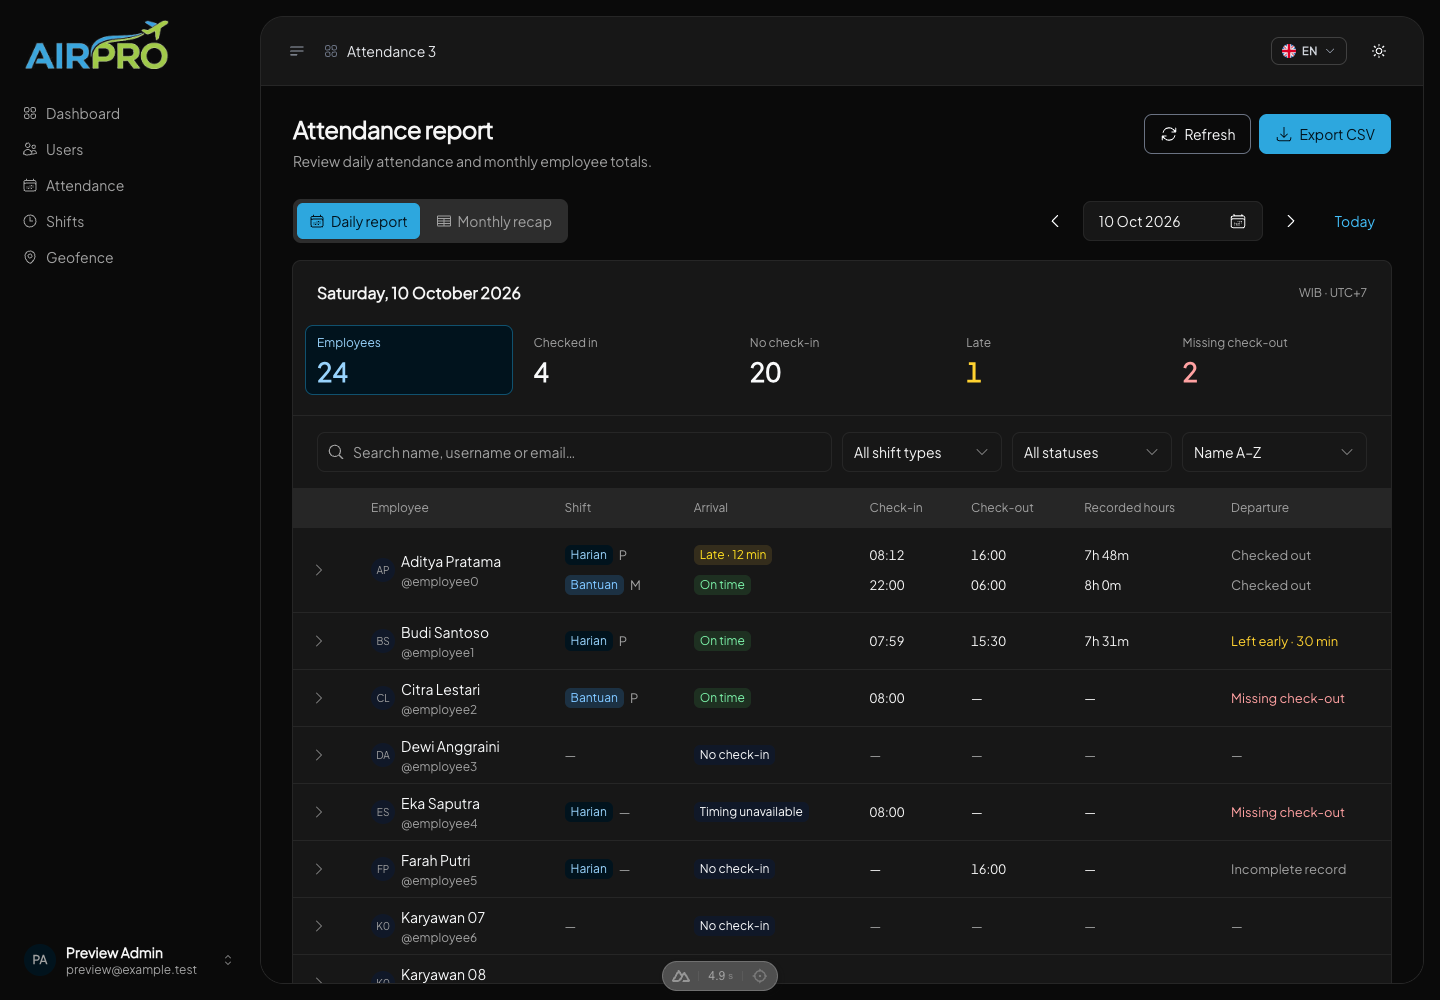
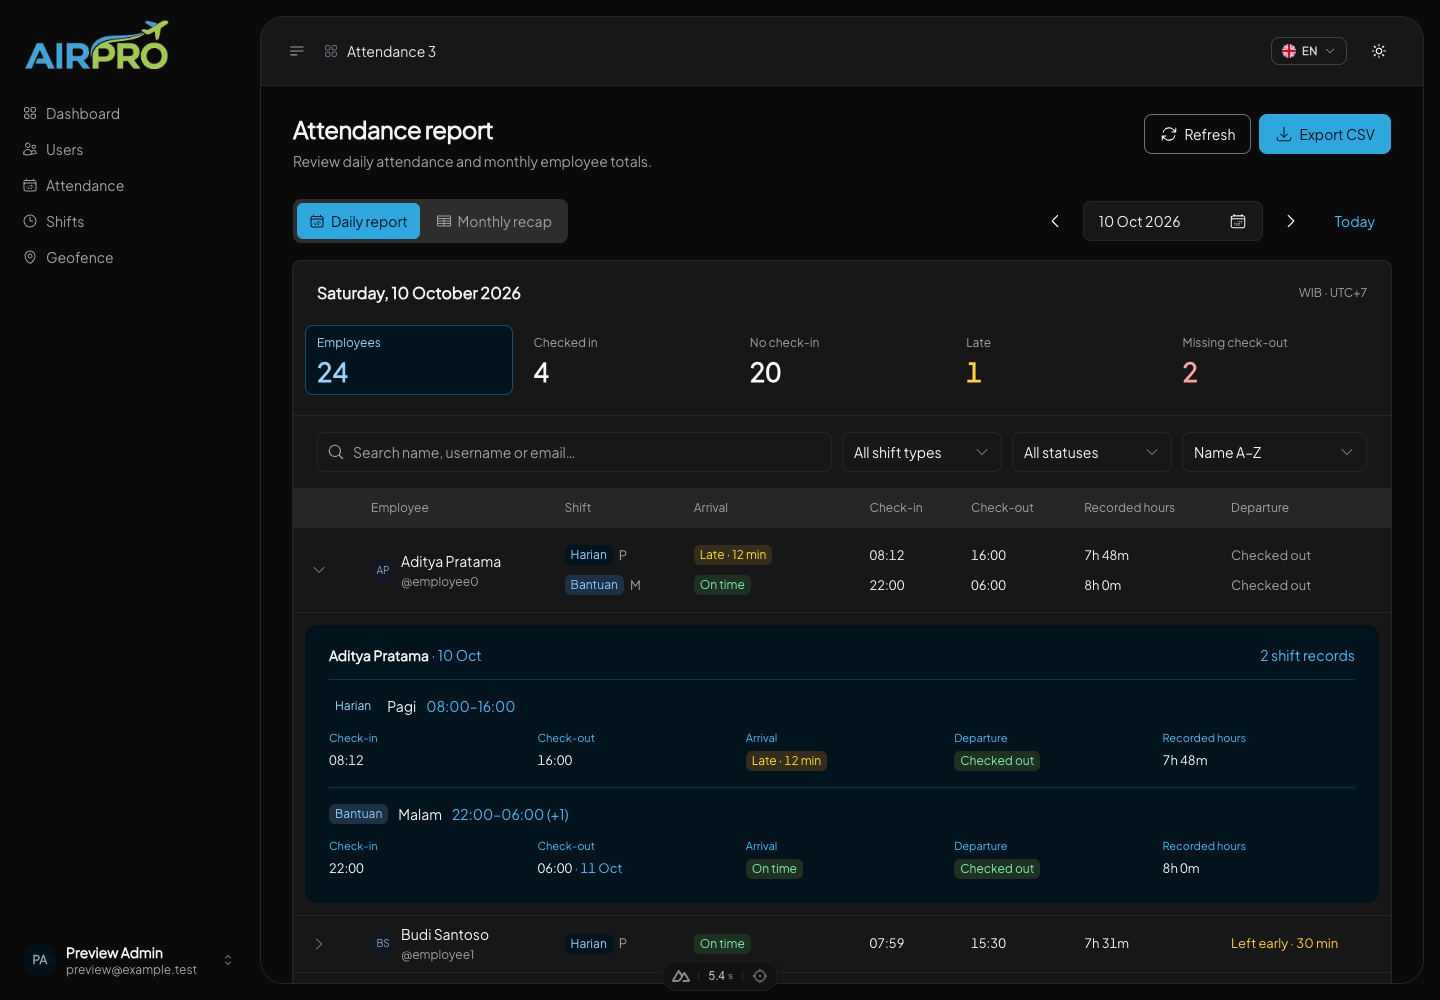
style(admin): inset attendance details with primary background

diff --git a/app/pages/admin/attendance-3.vue b/app/pages/admin/attendance-3.vue
@@ -471,7 +471,7 @@ const tableUi = {
   wrapper: 'relative rounded-none ring-0 overflow-x-auto',
   th: 'text-xs px-4 py-3',
   td: 'text-[13px] px-4 py-3 whitespace-nowrap',
-  expandedCell: 'p-0',
+  expandedCell: 'p-3 bg-(--selaras-resolved-surface-default)',
 }
 function arrivalColor(entry: Entry, date: string): 'success' | 'warning' | 'neutral' {
   const value = arrival(entry, date)
@@ -690,9 +690,9 @@ function exportCsv() {
               v-model:expanded="tableExpanded"
               :data="tableRows"
               :get-row-id="(row: Employee) => row.userId"
+              :row-class="() => 'transition-colors hover:bg-(--selaras-resolved-surface-elevated)'"
               :ui="tableUi"
               expandable
-              row-hover
               class="employee-table"
               @row-click="onEmployeeRowClick"
             >
@@ -796,15 +796,15 @@ function exportCsv() {
                 </SColumn>
               </template>
               <template #expanded="{ row }">
-                <div class="detail-content px-6 pt-5 pb-6">
-                  <div class="detail-heading flex items-center justify-between gap-4 mb-3.5 [&_h4]:font-semibold [&_h4_span]:font-normal [&_h4_span]:text-(--selaras-resolved-text-muted)">
+                <div class="detail-content rounded-xl bg-primary-50 px-6 pt-5 pb-6 shadow-[inset_0_2px_5px_rgb(0_0_0/0.08)] dark:bg-primary-950 dark:shadow-[inset_0_2px_5px_rgb(0_0_0/0.24)]">
+                  <div class="detail-heading flex items-center justify-between gap-4 mb-3.5 [&_h4]:font-semibold [&_h4_span]:font-normal [&_h4_span]:text-primary-700 dark:[&_h4_span]:text-primary-300">
                     <h4>{{ name(row) }} <span>· {{ view === 'daily' ? formatDate(selectedDate) : monthLabel }}</span></h4>
-                    <span class="text-(--selaras-resolved-text-muted)">{{ detailRecords(row).length }} {{ c.records }}</span>
+                    <span class="text-primary-700 dark:text-primary-300">{{ detailRecords(row).length }} {{ c.records }}</span>
                   </div>
-                  <p v-if="!detailRecords(row).length" class="text-(--selaras-resolved-text-muted)">
+                  <p v-if="!detailRecords(row).length" class="text-primary-700 dark:text-primary-300">
                     {{ view === 'daily' ? c.noEntries : c.noMonthEntries }}
                   </p>
-                  <div v-for="{ entry, date } in detailRecords(row)" :key="`${date}-${entry.shiftType}`" class="detail-record border-t border-(--selaras-resolved-border-default) py-4 last:pb-0">
+                  <div v-for="{ entry, date } in detailRecords(row)" :key="`${date}-${entry.shiftType}`" class="detail-record border-t border-primary-200 dark:border-primary-800 py-4 last:pb-0">
                     <div class="detail-shift flex items-center gap-2.5 mb-3.5 flex-wrap [&>strong]:font-[550]">
                       <SButton
                         v-if="view === 'recap'"
@@ -820,11 +820,11 @@ function exportCsv() {
                         {{ entry.shiftType }}
                       </SBadge>
                       <strong>{{ shiftLabel(entry) }}</strong>
-                      <span class="text-(--selaras-resolved-text-muted)">{{ schedule(entry, date) }}</span>
+                      <span class="text-primary-700 dark:text-primary-300">{{ schedule(entry, date) }}</span>
                     </div>
-                    <dl class="detail-values grid grid-cols-5 gap-4 [&_dt]:text-[11px] [&_dt]:text-(--selaras-resolved-text-muted) [&_dt]:mb-[5px] [&_dd]:text-[13px] [&_dd]:tabular-nums max-[640px]:grid-cols-2">
+                    <dl class="detail-values grid grid-cols-5 gap-4 [&_dt]:text-[11px] [&_dt]:text-primary-700 dark:[&_dt]:text-primary-300 [&_dt]:mb-[5px] [&_dd]:text-[13px] [&_dd]:tabular-nums max-[640px]:grid-cols-2">
                       <div><dt>{{ c.clockIn }}</dt><dd>{{ time(entry.clockIn) }}</dd></div>
-                      <div><dt>{{ c.clockOut }}</dt><dd>{{ time(entry.clockOut) }}<span v-if="entry.clockOut && getCalendarDate(new Date(entry.clockOut), timezone).toString() !== date" class="text-(--selaras-resolved-text-muted)"> · {{ formatDate(getCalendarDate(new Date(entry.clockOut), timezone).toString()) }}</span></dd></div>
+                      <div><dt>{{ c.clockOut }}</dt><dd>{{ time(entry.clockOut) }}<span v-if="entry.clockOut && getCalendarDate(new Date(entry.clockOut), timezone).toString() !== date" class="text-primary-700 dark:text-primary-300"> · {{ formatDate(getCalendarDate(new Date(entry.clockOut), timezone).toString()) }}</span></dd></div>
                       <div>
                         <dt>{{ c.attendance }}</dt><dd>
                           <SBadge :color="arrivalColor(entry, date)" variant="soft">

diff --git a/docs/attendance-3-design.md b/docs/attendance-3-design.md
@@ -48,6 +48,8 @@ Tailwind utilities handle report layout, responsive spacing, tabular numerals, a
 
 Expanded shift records use Selaras semantic badges: green for on-time arrival and completed departure, amber for late arrival and early departure, red for overdue check-outs or incomplete records, and blue for active attendance. Shift types and recap date actions also use colored library treatments. Status text remains explicit. Clicking any non-interactive cell toggles employee details; name and chevron buttons retain their keyboard behavior, and nested controls do not toggle the row twice.
 
+Expanded details sit inside a padded table cell, with rounded corners and a subtle inset shadow. The inner section uses the shared primary-50 surface in light mode and primary-950 in dark mode. Supporting labels and separators use the primary ramp to distinguish the detail region while maintaining readable contrast and the existing status badge colors. Hover styling applies only to employee rows; expanded sections retain their background on hover.
+
 ## Validation
 
 - `bun run build` passed (existing bundle-size and missing Sentry-token warnings).
